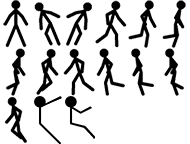
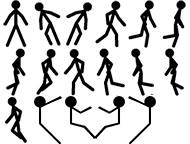
锁链爬向问题

Changed region(s): [[0.5, 0.6667, 0.7105, 0.9722], [0.6842, 0.6389, 0.8421, 1.0]]

diff --git a/js/main.js b/js/main.js
@@ -45,9 +45,9 @@ game.States.preload = function() {
         game.load.tilemap("mapone","assets/map/ground.json",null, Phaser.Tilemap.TILED_JSON);
     };
     this.create = function() {
-        //game.state.start('start');
+        game.state.start('start');
         // game.state.start('main');
-        game.state.start('test');
+        //game.state.start('test');
     };
 };
 //P2引擎测试页面
@@ -111,6 +111,11 @@ game.States.test=function(){
         this.moveStyle= moveStyle;
         this.moveFlag= moveFlag;
     };
+    //锁链对象
+    function Chain(){
+        this.chainFlag=true;//true与锁链第一次接触
+        this.chainPos=true;//true第一次判断玩家人物和锁链位置
+    }
     //对象扩展属性
     function Character(flag,speed,curDir){
         this.reverseFlag=flag;
@@ -134,12 +139,12 @@ game.States.test=function(){
     var beltStop=true;
     var ropeDir=true;
     var angleStep=0.5;
-    var sPos=45;
+    var sPos=0;
     var water;
     var shark;
     var sharkSpeed=100;
-    var chain,baseHeight,baseWidth;
-    var chainFlag=true;
+    var chain;
+    var chainX=50;
 
     this.create = function() {
         //开启物理引擎
@@ -149,24 +154,21 @@ game.States.test=function(){
 
         //锁链
         chain=game.add.group();
+        Chain.call(chain);
         chain.enableBody=true;
-        chain.position={x:48*50,y:200};
+        chain.position={x:chainX*50,y:200};
         for(var i=0;i<7;i++){
             chain.create(0,(i*2+1)*20,"chain",0).anchor.setTo(0.5,0);
             chain.create(0,i*40,"chain",1).anchor.setTo(0.5,0);
         }
-        baseWidth=chain.width;
-        baseHeight=chain.height;
 
         var chain1=game.add.group();
         chain1.enableBody=true;
-        //chain.anchor.setTo(0.5,0);
-        chain1.position={x:53*50,y:200};
+        chain1.position={x:(chainX+6)*50,y:200};
         for(var i=0;i<7;i++){
             chain1.create(0,(i*2+1)*20,"chain",0).anchor.setTo(0.5,0);
             chain1.create(0,i*40,"chain",1).anchor.setTo(0.5,0);
         }
-
         //玩家物理引擎配置
         player=game.add.sprite(sPos*50,game.world.height-170,"playerwalk",2);
         // player.alpha=0;
@@ -182,6 +184,7 @@ game.States.test=function(){
         player.animations.add("leftMove",[8,9,10,11,12]);
         player.animations.add("rightMove",[3,4,5,6,7]);
         player.animations.add("climb",[13,14]);
+        player.animations.add("climbR",[16,15]);
 
         //地图资源加载
         map = game.add.tilemap('mapone');
@@ -266,17 +269,13 @@ game.States.test=function(){
             }
         }
         if(game.input.keyboard.isDown(Phaser.Keyboard.C)){
-            if(chainFlag){
-                player.parent=game.world;
-                player.x=player.previousPosition.x;
-                player.y=player.previousPosition.y;
-                chainFlag=false;
-            }
+            console.log(chain.rotation);
         }
         //玩家爬锁位置刷新
         if(player.isClimb){
-            if(chainFlag){
-                player.x=player.x-chain.x;
+            if(chain.chainFlag){
+                chain.chainPos=chain.curDir;
+                player.x=chain.chainPos?player.x-chain.x:player.x-chain.x-player.width;
                 player.y=player.y-chain.y;
                 // 玩家未挂载锁链则执行组添加，如果不是则执行挂载对象替换
                 if(chain.hash.length==14){
@@ -284,10 +283,10 @@ game.States.test=function(){
                 }else{
                     player.parent=chain;
                 }
-                chainFlag=false;
-            }else{
-                player.x=-13.5;
+                chain.chainFlag=false;
             }
+            player.x=chain.chainPos?-13.5:13.5;
+            player.y=player.y>0?player.y:0;
         }
         game.physics.arcade.collide(player,evilBoxGroup,reverseOperation);
         game.physics.arcade.collide(player,stoneGroup);
@@ -304,10 +303,13 @@ game.States.test=function(){
         // //绳子摆动方向
         if(ropeDir){
             chain.angle+=angleStep;
+            chain.curDir=true;
             //chain1.angle+=angleStep;
             rope.angle+=angleStep;
-            if(rope.angle==30)
+            if(rope.angle==30){
                 ropeDir=false;
+                chain.curDir=false;
+            }
         }else{
             chain.angle-=angleStep;
             // chain1.angle+=angleStep;
@@ -316,6 +318,7 @@ game.States.test=function(){
                 ropeDir=true;
         }
         if(cursors.left.isDown){
+            player.curDir=true;
             if(player.body.touching.down||player.body.onFloor()){
                 var move=player.reverseFlag?"rightMove":"leftMove";
                 player.animations.play(move,10,true);
@@ -332,6 +335,7 @@ game.States.test=function(){
                // console.log(player.x);
             }
         }else if(cursors.right.isDown){
+            player.curDir=false;
             if(player.body.touching.down||player.body.onFloor()){
                 var move=player.reverseFlag?"leftMove":"rightMove";
                 player.animations.play(move,10,true);
@@ -359,34 +363,30 @@ game.States.test=function(){
             if(beltLeftAction)
                 player.body.velocity.x-=npcSpeed/2;
         };
+        var moveStyle=chain.chainPos?"climb":"climbR";
         if(cursors.up.isDown){
-            if(player.isClimb){
-                player.animations.play("climb",6,true);
-                player.body.velocity.y=-playerSpeed;
+            if(player.isClimb) {
+                player.animations.play(moveStyle, 6, true);
+                player.body.velocity.y = -playerSpeed;
                 //跳跃离开锁链
-                if(cursors.left.isDown||cursors.right.isDown){
-                    resetConfig();
-                    if(!chainFlag){
-                        player.parent=game.world;
-                        player.x=player.previousPosition.x;
-                        player.y=player.previousPosition.y;
-                        chainFlag=true;
-                    }
-                }
+                if (cursors.left.isDown || cursors.right.isDown)
+                    leaveChain();
             }
             if(player.body.touching.down||player.body.onFloor())
                 player.body.velocity.y=playerJump;
         }else if(cursors.down.isDown) {
             if(player.isClimb) {
                 player.body.velocity.y=-playerJump;
-                player.animations.play("climb",6,true);
+                player.animations.play(moveStyle,6,true);
+                if(player.y>=275)
+                    leaveChain();
             }
         }else {
             if(player.isClimb){
                 player.animations.stop("climb");
                 player.body.gravity.y=0;
                 player.body.velocity.y=0;
-                player.frame=13;
+                player.frame=chain.chainPos?13:16;
             }
         };
         if(player.body.touching.down||player.body.onFloor()){
@@ -395,7 +395,7 @@ game.States.test=function(){
     };
     this.render=function () {
         // game.debug.spriteBounds(player);
-        game.debug.spriteInfo(player, 32, 32,"black");
+       // game.debug.spriteInfo(player, 32, 32,"black");
     };
     function gameOver(){
         var reviveX=player.x;
@@ -412,6 +412,15 @@ game.States.test=function(){
     function climbChain(){
         player.isClimb=true;
     };
+    function leaveChain(){
+        resetConfig();
+        if(!chain.chainFlag){
+            player.parent=game.world;
+            player.x=player.previousPosition.x;
+            player.y=player.previousPosition.y;
+            chain.chainFlag=true;
+        }
+    }
     function syncMove(obj1,obj2) {
         if(obj2.movestyle=="vertical")
             obj1.body.velocity.y=obj2.movespeed;
@@ -523,7 +532,7 @@ game.States.start = function() {
             tween.body.immovable=true;
             //设置组元素碰撞边界
             tween.body.setSize(63,30,0,12);
-            var tweenIn=game.add.tween(tween).to({y:10}, 4000, Phaser.Easing.Elastic.Out,false);
+            var tweenIn=game.add.tween(tween).to({y:10}, 4000, Phaser.Easing.Exponential.Out,false);
             var tweenDown=game.add.tween(tween).to({y:200}, 2000, Phaser.Easing.Bounce.Out,false,i*100);
             //chain链式启动下落动画
             tweenIn.chain(tweenDown);
@@ -568,6 +577,7 @@ game.States.start = function() {
                 player.animations.play("startBack",10,true);
             };
             leftFlag=false;
+            //console.log(game.time.totalElapsedSeconds().toFixed(3)-oldtime);
         };
         if(moveFloat){
             player.y=title.getChildAt(0).y+title.y-38;
@@ -584,7 +594,7 @@ game.States.start = function() {
         setTimeout(function () {
             player.animations.add("startRun",[3,4,5,6,7]);
             player.animations.play("startRun",10,true);
-            playerRun=game.add.tween(player).to({x:700},3100,Phaser.Easing.Elastic.Out,true);
+            playerRun=game.add.tween(player).to({x:700},3100,Phaser.Easing.Exponential.Out,true);
             playerRun.onComplete.add(thisCreate.back,this);
         },1300);
     };
@@ -597,8 +607,8 @@ game.States.start = function() {
         player.body.gravity.y=80;
         player.body.collideWorldBounds=true;
         //起跳灰尘效果播放
-        var dustyOn=game.add.tween(dusty).to({alpha:1},300,Phaser.Easing.Elastic.Out,false);
-        dustyOn.chain(game.add.tween(dusty).to({alpha:0},300,Phaser.Easing.Elastic.In,false));
+        var dustyOn=game.add.tween(dusty).to({alpha:1},300,Phaser.Easing.Exponential.Out,false);
+        dustyOn.chain(game.add.tween(dusty).to({alpha:0},300,Phaser.Easing.Exponential.In,false));
         dustyOn.start();
     };
     //标题浮动
@@ -607,7 +617,7 @@ game.States.start = function() {
         bounceFlag++;
     };
     this.nextStage=function () {
-        game.state.start("main");
+        game.state.start("test");
     }
 };
 
